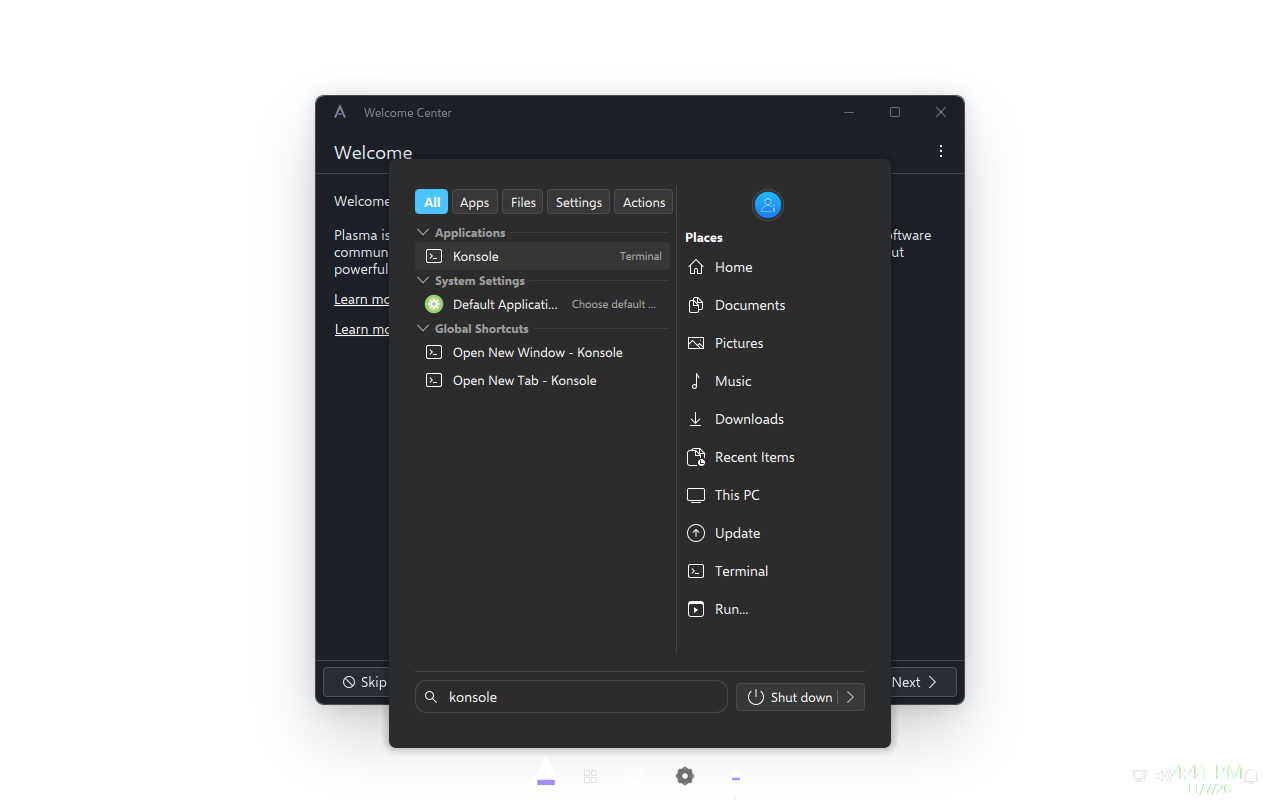
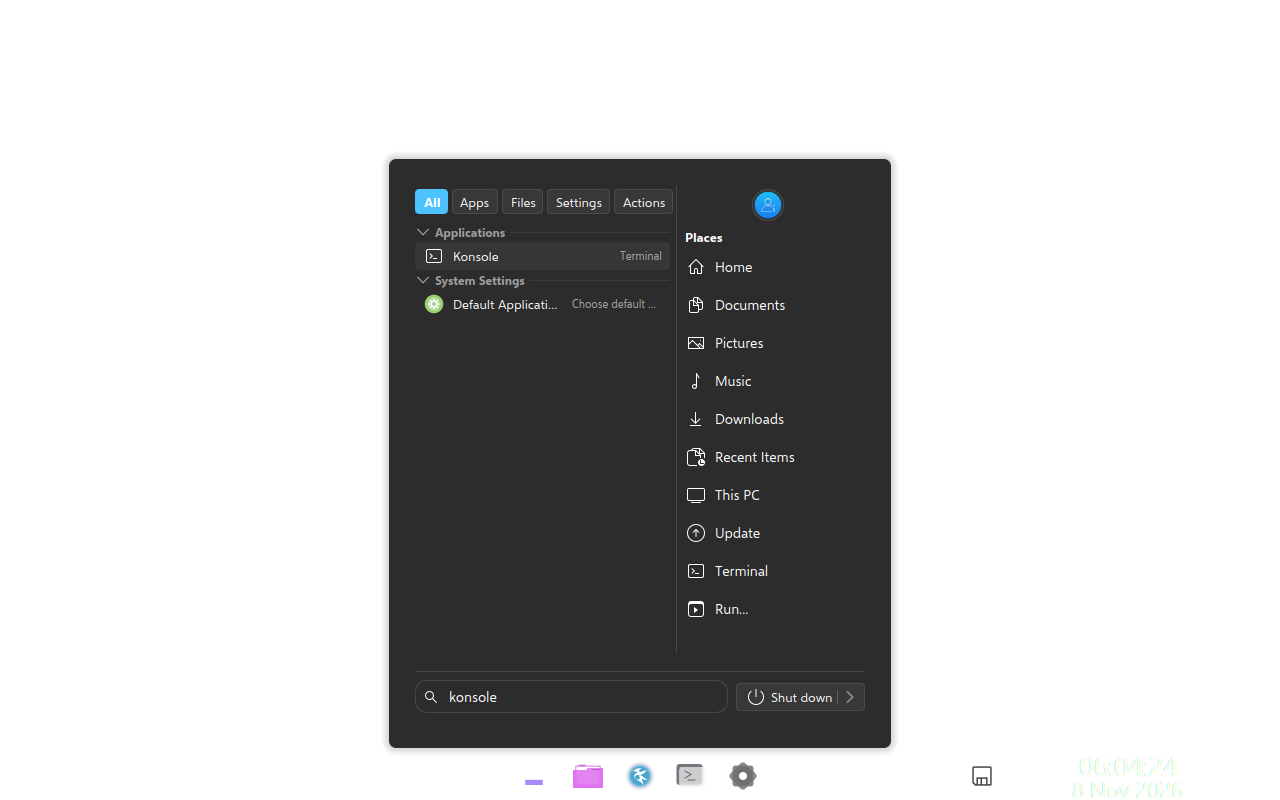
Le menu Démarrer avait la forme de Windows 7 : premier pas vers celle de 11
Les captures publiées dans la branche étaient celles de FEDORA, avec le
Welcome Center en travers du bureau et Konqi. Elles ne montraient donc pas
la cible. Les sept images sont remplacées par celles de la session Ubuntu
26.04 / Plasma 6.6 du passage 42452585206, bureau dégagé, et la barre est
recadrée en pleine résolution puis doublée en pixels nets, comme demandé.

Et ce qu'elles montrent, une fois regardées : le menu n'est pas celui de
Windows 11. Deux colonnes — liste verticale d'épingles à gauche, colonne
« Places » (Home, Documents, Pictures, This PC, Run…) à droite — et la
recherche tout en bas, portant le texte littéral de Windows 7, « Search
programs and files ». C'est un menu de Windows 7.

Les mesures viennent de sources publiées, jamais d'un fichier de Microsoft
(DE-005) : menu de 642 × 726 à l'échelle 100 %, épingles en 6 colonnes sur
3 rangées, icône de 32 px à 100 % — 40 à 125 %, 48 à 150 % — d'après la
page « Construct your Windows App's Icon » de Microsoft Learn. Le guide de
style de ramensoftware, lui, ne donne aucune de ces valeurs : c'est une
référence de mod Windhawk, pas une spécification, et je l'ai vérifié avant
de m'en servir plutôt qu'après.

Ce commit corrige quatre écarts sur les sept relevés :

- la LISTE devient une GRILLE à 6 colonnes, icône de 32 px au-dessus d'un
  libellé centré sur deux lignes (src/demarrer/PinnedPage.qml). L'API de la
  page est conservée au caractère près — mêmes signaux, mêmes fonctions —
[…]

diff --git a/src/demarrer/PinnedPage.qml b/src/demarrer/PinnedPage.qml
@@ -1,0 +1,248 @@
+/***************************************************************************
+ *   SPDX-License-Identifier: GPL-3.0-or-later
+ *
+ *   Page « Épinglées » d'Ankh DE — la GRILLE de Windows 11.
+ *
+ *   Remplace la page de KDE-Windows-Modern (GPL-3.0, commit 7ef6bfe), qui
+ *   dessinait une LISTE verticale : c'est la disposition de Windows 7, pas
+ *   celle de Windows 11. Le constat vient d'une capture de session réelle
+ *   du 2026-11-08, pas d'une impression.
+ *
+ *   Ce qu'on garde de l'amont, intact : le modèle (favoris de Kicker), le
+ *   lancement par « model.trigger(index, "", null) », et l'API de cette
+ *   page — mêmes signaux, mêmes fonctions — pour que MenuRepresentation
+ *   n'ait rien à savoir du changement.
+ *
+ *   Ce qu'on change : ListView -> GridView à 6 colonnes, icône de 32 px
+ *   au-dessus du libellé, libellé centré sur deux lignes.
+ *
+ *   Les mesures viennent de sources publiées, jamais d'un fichier de
+ *   Microsoft (DE-005) :
+ *     - 6 colonnes sur 3 rangées pour les épingles, sur un écran 1080p ;
+ *     - icône de 32 px à l'échelle 100 % (40 à 125 %, 48 à 150 %), d'après
+ *       la page « Construct your Windows App's Icon » de Microsoft Learn.
+ *       Kirigami.Units.iconSizes.medium vaut 32 et suit l'échelle : on
+ *       prend donc la valeur de Kirigami plutôt qu'un 32 écrit en dur.
+ ***************************************************************************/
+
+import QtQuick
+import QtQuick.Layouts
+
+import org.kde.plasma.components as PlasmaComponents3
+import org.kde.kirigami as Kirigami
+
+import "../components"
+
+ColumnLayout {
+    id: pinnedPage
+
+    spacing: Kirigami.Units.largeSpacing
+
+    // L'amont expose la vue sous ce nom et MenuRepresentation lui pose son
+    // modèle (« pinnedPage.favoritesList.model = globalFavorites »). Le nom
+    // reste, la vue change de nature.
+    property alias favoritesList: favoritesGrid
+
+    // Nombre de colonnes. Réglable, et à 6 par défaut comme Windows 11 —
+    // c'est déjà la valeur par défaut de « numberColumns » dans le
+    // main.xml de l'amont, qui ne s'en servait pas pour cette page.
+    readonly property int colonnes: Math.max(1, Plasmoid.configuration.numberColumns || 6)
+
+    signal showAllAppsRequested
+    signal keyNavUpFromList
+
+    function tryActivate(row) {
+        if (favoritesGrid.count > 0) {
+            favoritesGrid.currentIndex = Math.min(row, favoritesGrid.count - 1);
+        }
+    }
+
+    // Dans une grille, « haut » et « bas » se déplacent d'une RANGÉE, donc
+    // du nombre de colonnes — et non d'un cran comme dans une liste.
+    function navigateUp() {
+        if (favoritesGrid.count <= 0) {
+            return;
+        }
+        if (favoritesGrid.currentIndex - pinnedPage.colonnes < 0) {
+            pinnedPage.keyNavUpFromList();
+            return;
+        }
+        favoritesGrid.currentIndex -= pinnedPage.colonnes;
+    }
+
+    function navigateDown() {
+        if (favoritesGrid.count <= 0) {
+            return;
+        }
+        favoritesGrid.currentIndex = Math.min(favoritesGrid.count - 1,
+                                              favoritesGrid.currentIndex + pinnedPage.colonnes);
+    }
+
+    function navigateLeft() {
+        if (favoritesGrid.count > 0) {
+            favoritesGrid.currentIndex = Math.max(0, favoritesGrid.currentIndex - 1);
+        }
+    }
+
+    function navigateRight() {
+        if (favoritesGrid.count > 0) {
+            favoritesGrid.currentIndex = Math.min(favoritesGrid.count - 1,
+                                                  favoritesGrid.currentIndex + 1);
+        }
+    }
+
+    function activateCurrent() {
+        if (favoritesGrid.currentIndex >= 0 && favoritesGrid.model) {
+            favoritesGrid.model.trigger(favoritesGrid.currentIndex, "", null);
+            root.closeMenu();
+        }
+    }
+
+    // ── En-tête : « Épinglées » … « Toutes les applications > » ──────────
+    RowLayout {
+        id: headerRow
+        Layout.fillWidth: true
+        spacing: Kirigami.Units.smallSpacing
+
+        PlasmaComponents3.Label {
+            text: i18n("Pinned")
+            color: Kirigami.Theme.textColor
+            font.pointSize: Kirigami.Theme.defaultFont.pointSize * 0.95
+            font.weight: Font.DemiBold
+            Layout.alignment: Qt.AlignVCenter
+        }
+
+        Item { Layout.fillWidth: true }
+
+        AToolButton {
+            buttonHeight: 25
+            flat: true
+            iconName: "go-next"
+            text: i18n("All apps")
+            Layout.rightMargin: Kirigami.Units.mediumSpacing
+            onClicked: pinnedPage.showAllAppsRequested()
+        }
+    }
+
+    // ── La grille des épingles ──────────────────────────────────────────
+    GridView {
+        id: favoritesGrid
+        Layout.fillWidth: true
+        Layout.fillHeight: true
+        clip: true
+        interactive: true
+        boundsBehavior: Flickable.StopAtBounds
+        currentIndex: -1
+        focus: true
+
+        // Une case par application : l'icône, puis deux lignes de libellé.
+        cellWidth: Math.floor(width / pinnedPage.colonnes)
+        cellHeight: Math.round(Kirigami.Units.gridUnit * 5.5)
+
+        PlasmaComponents3.ScrollBar.vertical: PlasmaComponents3.ScrollBar {
+            policy: PlasmaComponents3.ScrollBar.AsNeeded
+        }
+
+        highlightMoveDuration: 0
+
+        delegate: Item {
+            id: caseEpingle
+            width: favoritesGrid.cellWidth
+            height: favoritesGrid.cellHeight
+            enabled: model.disabled !== undefined ? !model.disabled : true
+
+            readonly property bool actif: favoritesGrid.currentIndex === index
+            readonly property string libelle: ("name" in model && model.name !== undefined)
+                ? model.name
+                : (model.display !== undefined ? model.display : "")
+
+            Accessible.role: Accessible.Button
+            Accessible.name: caseEpingle.libelle
+
+            Rectangle {
+                id: fond
+                anchors.fill: parent
+                anchors.margins: Math.round(Kirigami.Units.smallSpacing / 2)
+                radius: Kirigami.Units.cornerRadius !== undefined
+                    ? Kirigami.Units.cornerRadius
+                    : 4
+                color: Kirigami.Theme.textColor
+                opacity: caseEpingle.actif ? 0.14 : (souris.containsMouse ? 0.08 : 0)
+                Behavior on opacity {
+                    NumberAnimation { duration: Kirigami.Units.shortDuration }
+                }
+            }
+
+            ColumnLayout {
+                anchors.fill: parent
+                anchors.margins: Kirigami.Units.smallSpacing
+                spacing: Kirigami.Units.smallSpacing
+
+                Kirigami.Icon {
+                    // 32 px à 100 % : la mesure de Windows 11, portée par
+                    // Kirigami pour qu'elle suive les échelles 125 et 150 %.
+                    Layout.alignment: Qt.AlignHCenter
+                    Layout.preferredWidth: Kirigami.Units.iconSizes.medium
+                    Layout.preferredHeight: Kirigami.Units.iconSizes.medium
+                    source: model.decoration !== undefined ? model.decoration : ""
+                    animated: false
+                }
+
+                PlasmaComponents3.Label {
+                    Layout.fillWidth: true
+                    Layout.fillHeight: true
+                    text: caseEpingle.libelle
+                    color: Kirigami.Theme.textColor
+                    horizontalAlignment: Text.AlignHCenter
+                    verticalAlignment: Text.AlignTop
+                    wrapMode: Text.Wrap
+                    elide: Text.ElideRight
+                    maximumLineCount: 2
+                    font.pointSize: Kirigami.Theme.defaultFont.pointSize * 0.9
+                }
+            }
+
+            MouseArea {
+                id: souris
+                anchors.fill: parent
+                hoverEnabled: true
+                acceptedButtons: Qt.LeftButton
+                onEntered: favoritesGrid.currentIndex = index
+                onClicked: {
+                    if (favoritesGrid.model
+                            && typeof favoritesGrid.model.trigger === "function") {
+                        favoritesGrid.model.trigger(index, "", null);
+                        root.closeMenu();
+                    }
+                }
+            }
+        }
+
+        // La première rangée rend le clavier à la recherche, qui est
+        // au-dessus d'elle.
+        Keys.onUpPressed: event => {
+            event.accepted = true;
+            pinnedPage.navigateUp();
+        }
+        Keys.onDownPressed: event => {
+            event.accepted = true;
+            pinnedPage.navigateDown();
+        }
+        Keys.onLeftPressed: event => {
+            event.accepted = true;
+            pinnedPage.navigateLeft();
+        }
+        Keys.onRightPressed: event => {
+            event.accepted = true;
+            pinnedPage.navigateRight();
+        }
+        Keys.onReturnPressed: event => {
+            event.accepted = true;
+            pinnedPage.activateCurrent();
+        }
+        Keys.onEnterPressed: event => {
+            event.accepted = true;
+            pinnedPage.activateCurrent();
+        }
+    }
+}
